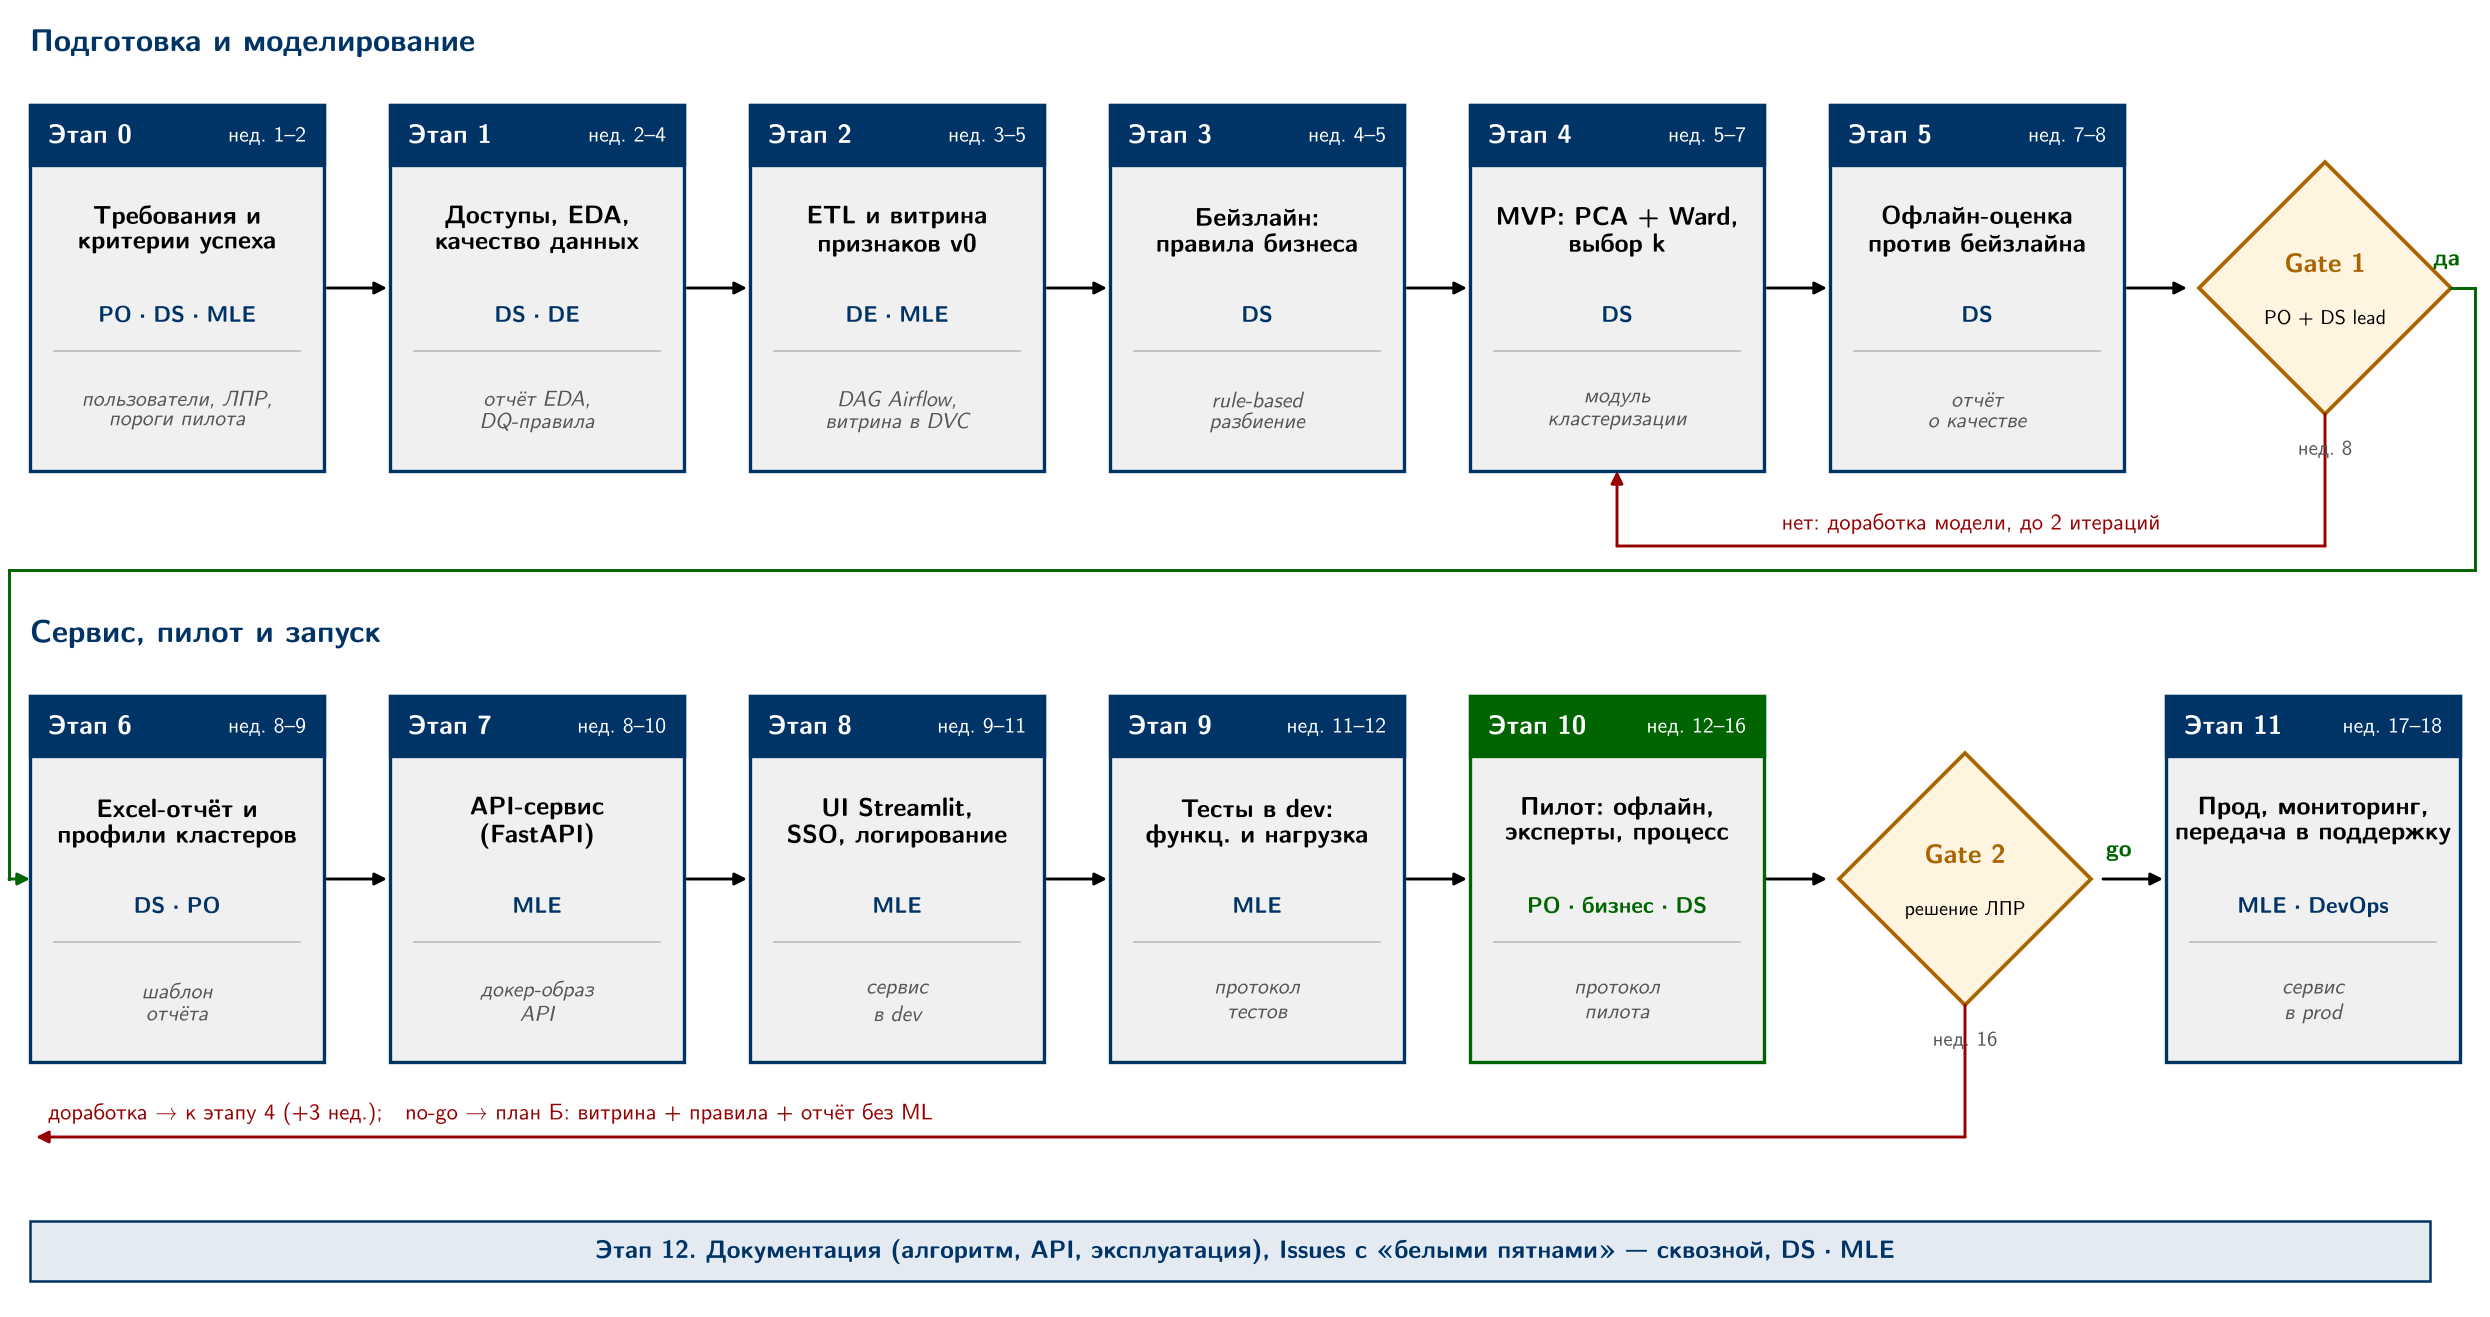
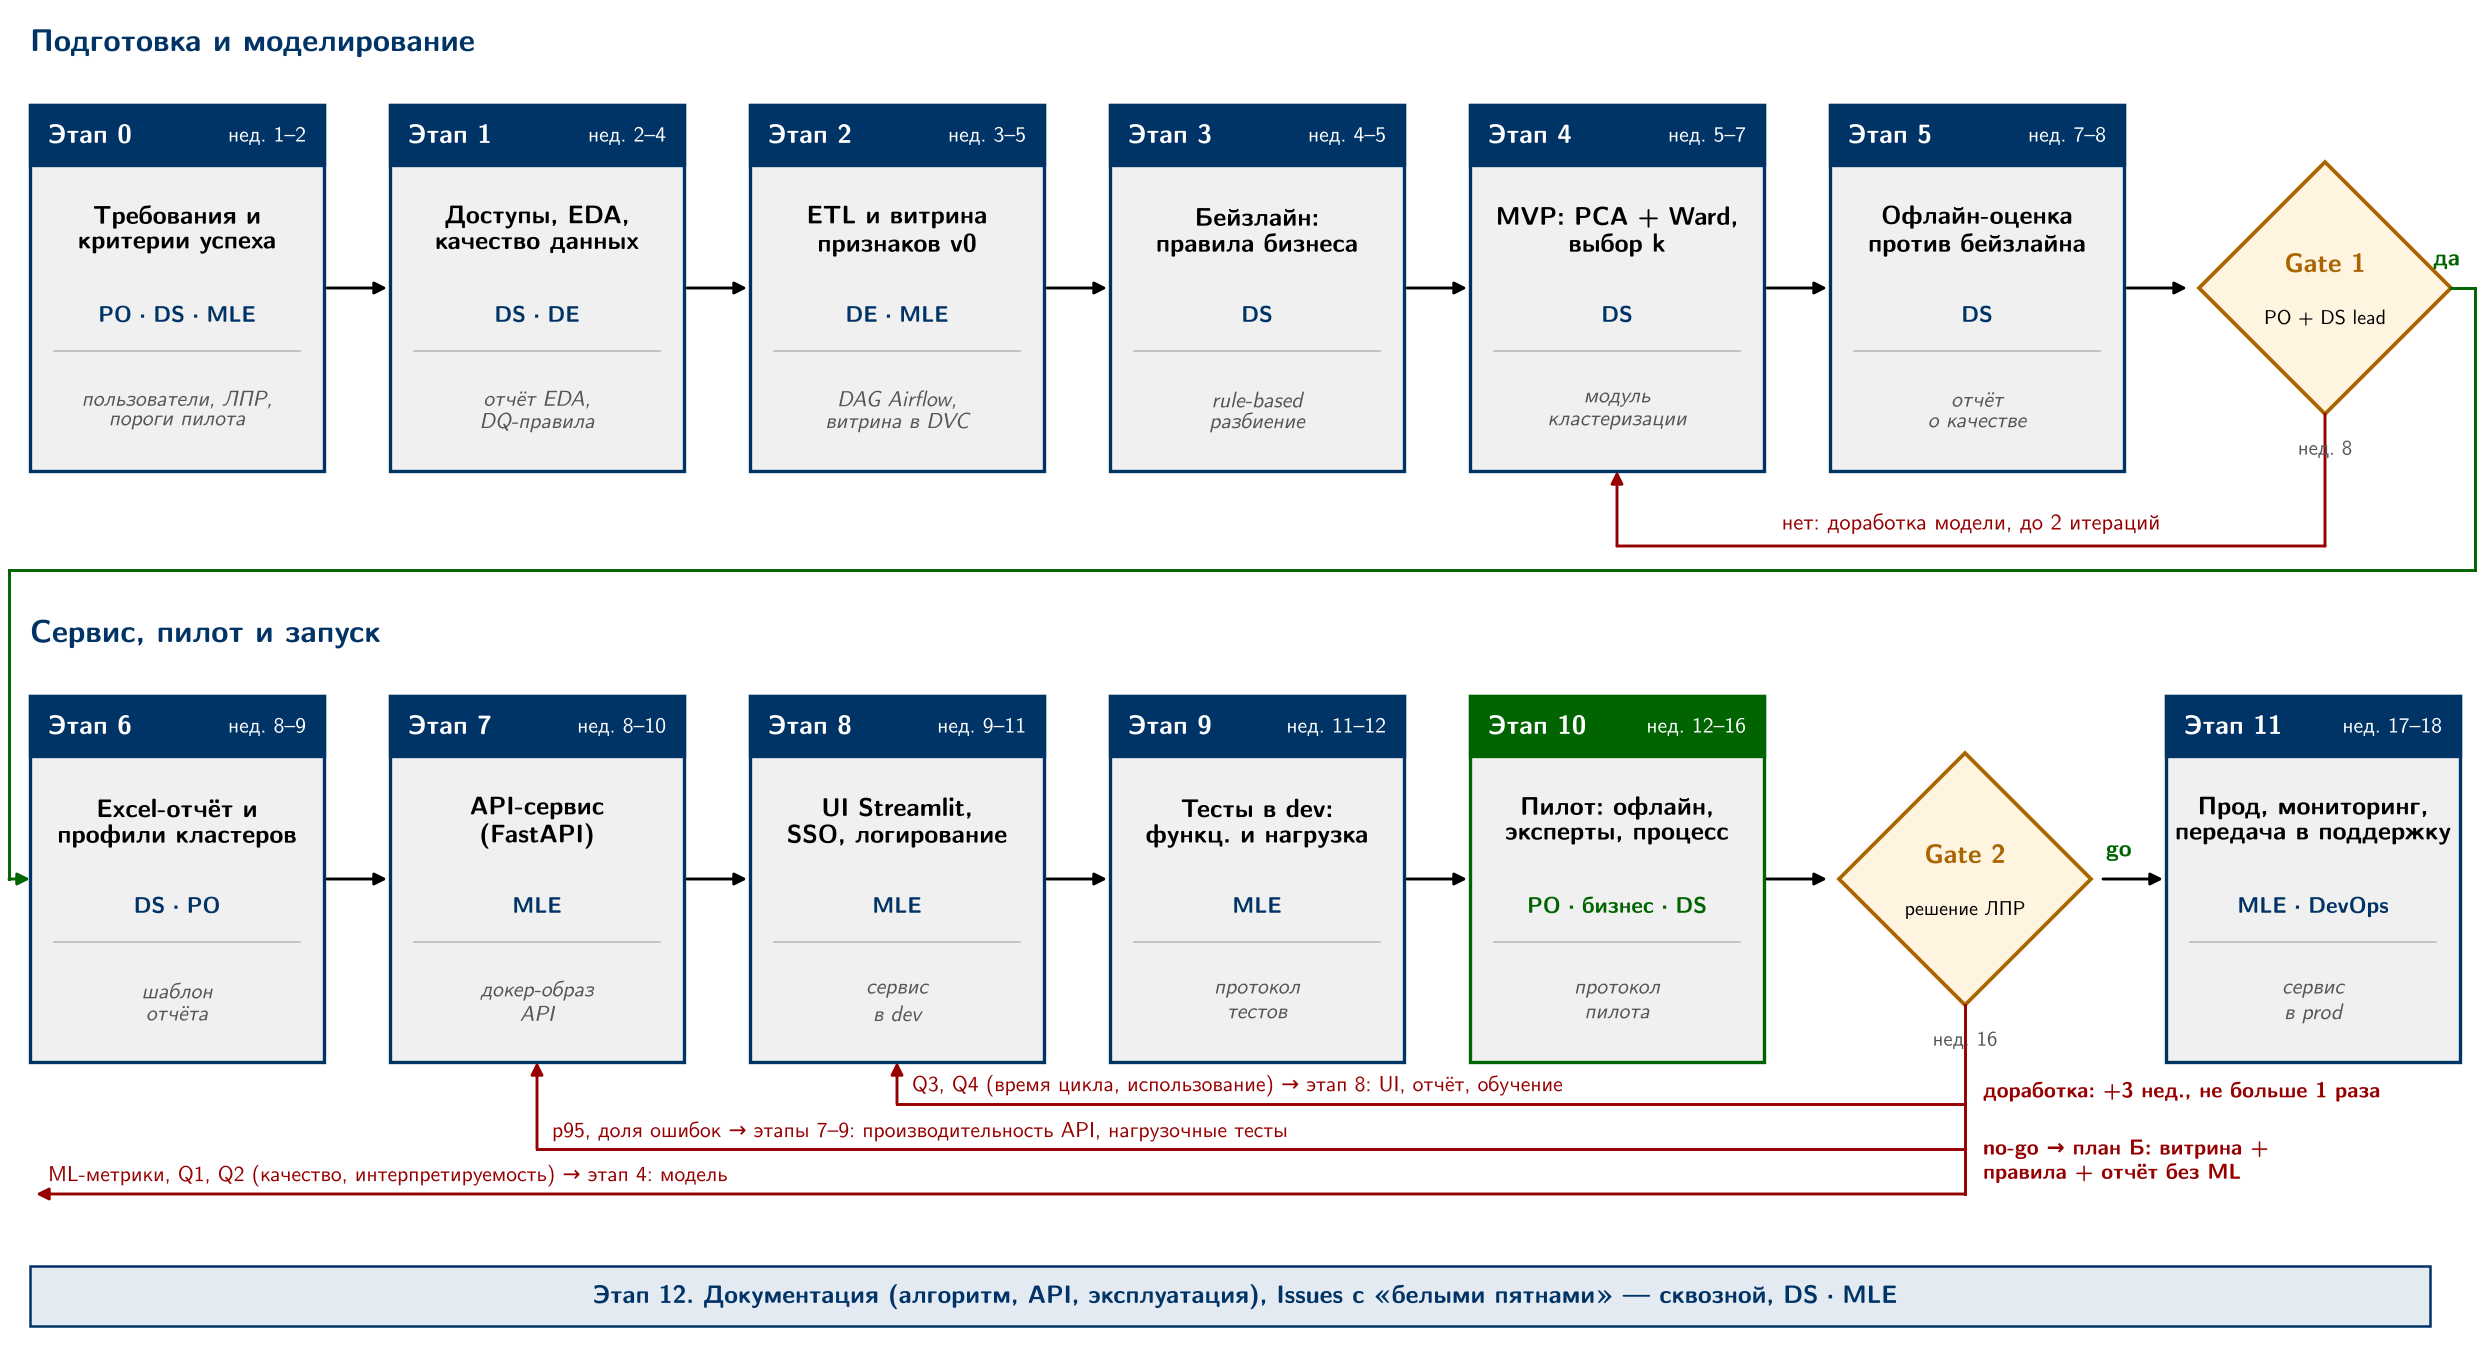
docs(diagrams): три маршрута доработки на Gate 2 в scheme.png
Closes #22

diff --git a/diagrams/draw.py b/diagrams/draw.py
@@ -99,12 +99,12 @@ def row_width(items):
     return sum((0.9 if i[0].startswith("G") else BW) for i in items) + GAP * (len(items) - 1)
 
 
-def stages_row(items, fname, loop):
+def stages_row(items, fname, loop, below=0.45):
     W = row_width(items) + 0.2
-    H = BH + 0.75
+    H = BH + 0.3 + below
     fig = plt.figure(figsize=(W, H))
     ax = fig.add_axes([0, 0, 1, 1]); ax.set_xlim(0, W); ax.set_ylim(0, H); ax.axis("off")
-    y0 = 0.45
+    y0 = below
     pos = draw_row(ax, items, 0.1, y0)
     loop(ax, pos, y0)
     fig.savefig(f"{OUT}/{fname}", dpi=DPI, facecolor="white")
@@ -124,29 +124,49 @@ def loop1(ax, pos, y0):
     ax.text(0.1, y0 + BH + 0.18, "Подготовка и моделирование", fontsize=7.5, fontweight="bold", color=BLUE)
 
 
+# Маршруты доработки на Gate 2 (README, §3.2): (индекс этапа в ROW2 или None — к этапу 4 в первом ряду, подпись)
+REWORK = [
+    (2, "Q3, Q4 (время цикла, использование) → этап 8: UI, отчёт, обучение"),
+    (1, "p95, доля ошибок → этапы 7–9: производительность API, нагрузочные тесты"),
+    (None, "ML-метрики, Q1, Q2 (качество, интерпретируемость) → этап 4: модель"),
+]
+
+
 def loop2(ax, pos, y0, title="Сервис, пилот и запуск   (Этап 12, документация и Issues, идёт сквозным потоком)"):
     g = pos[5]
     ax.text(g[3] + 0.47, y0 + BH / 2 + 0.06, "go", color=GREEN, fontsize=5.6, fontweight="bold", va="bottom")
-    arrow(ax, (g[3], y0 + BH / 2 - 0.42), (g[3], y0 - 0.25), color=RED, style="-")
-    arrow(ax, (g[3], y0 - 0.25), (pos[0][0] + 0.02, y0 - 0.25), color=RED, style="-|>")
-    ax.text(pos[0][0] + 0.06, y0 - 0.21,
-            "доработка → к этапу 4 (+3 нед.);   no-go → план Б: витрина + правила + отчёт без ML",
-            color=RED, fontsize=5.4, ha="left", va="bottom")
+    step = 0.15
+    lanes = [y0 - 0.14 - step * i for i in range(len(REWORK))]
+    ax.plot([g[3], g[3]], [y0 + BH / 2 - 0.42, lanes[-1]], color=RED, lw=0.7)
+    for (idx, label), yl in zip(REWORK, lanes):
+        if idx is None:
+            xt = pos[0][0] + 0.02
+            arrow(ax, (g[3], yl), (xt, yl), color=RED)
+            ax.text(xt + 0.04, yl + 0.025, label, color=RED, fontsize=5.2, ha="left", va="bottom")
+        else:
+            xt = pos[idx][3]
+            ax.plot([g[3], xt], [yl, yl], color=RED, lw=0.7)
+            arrow(ax, (xt, yl), (xt, y0), color=RED)
+            ax.text(xt + 0.05, yl + 0.025, label, color=RED, fontsize=5.2, ha="left", va="bottom")
+    ax.text(g[3] + 0.06, y0 - 0.06, "доработка: +3 нед., не больше 1 раза", color=RED, fontsize=5.2,
+            fontweight="bold", ha="left", va="top")
+    ax.text(g[3] + 0.06, lanes[-1] + 0.03, "no-go → план Б: витрина +\nправила + отчёт без ML", color=RED,
+            fontsize=5.2, fontweight="bold", ha="left", va="bottom", linespacing=1.1)
     ax.text(0.1, y0 + BH + 0.18, title, fontsize=7.5, fontweight="bold", color=BLUE)
 
 
 stages_row(ROW1, "stages_row1.png", loop1)
-stages_row(ROW2, "stages_row2.png", loop2)
+stages_row(ROW2, "stages_row2.png", loop2, below=0.62)
 
 # Полная схема для README: два ряда друг под другом
 W = max(row_width(ROW1), row_width(ROW2)) + 0.2
-H = 2 * (BH + 0.75) + 0.45
+H = 2 * (BH + 0.75) + 0.6
 fig = plt.figure(figsize=(W, H))
 ax = fig.add_axes([0, 0, 1, 1]); ax.set_xlim(0, W); ax.set_ylim(0, H); ax.axis("off")
 yA = H - BH - 0.35
 pA = draw_row(ax, ROW1, 0.1, yA)
 loop1(ax, pA, yA)
-yB = 0.85
+yB = 1.0
 pB = draw_row(ax, ROW2, 0.1, yB)
 loop2(ax, pB, yB, title="Сервис, пилот и запуск")
 # переход G1 -> этап 6
@@ -268,12 +288,12 @@ matrix("risk_matrix.png")
 matrix("risk_matrix_residual.png", residual=True)
 
 # ---------------------------------------------------------------- компактные этапы для слайдов
-def slide_stages(items, fname, footer):
-    W, H = 5.5, 1.58
+def slide_stages(items, fname, footer, below=0.4):
+    W, H = 5.5, 1.18 + below
     bw, gap, bh = 0.66, 0.12, 1.08
     fig = plt.figure(figsize=(W, H))
     ax = fig.add_axes([0, 0, 1, 1]); ax.set_xlim(0, W); ax.set_ylim(0, H); ax.axis("off")
-    y0 = 0.4
+    y0 = below
     x = 0.06
     centers = []
     for it in items:
@@ -335,15 +355,28 @@ def f1(ax, c, y0, bh):
 
 def f2(ax, c, y0, bh):
     g = c[5]
-    yl = 0.14
-    ax.plot([g[2], g[2]], [y0 + bh / 2 - 0.36, yl], color=RED, lw=0.7)
-    ax.plot([g[2], c[0][0] + 0.02], [yl, yl], color=RED, lw=0.7)
-    ax.text(c[0][0] + 0.04, yl + 0.03, "доработка → этап 4 (+3 нед.);  no-go → план Б: витрина + правила без ML",
-            color=RED, fontsize=5, ha="left", va="bottom")
+    short_lab = ["Q3, Q4 → этап 8: UI и процесс", "p95, ошибки → этапы 7–9", "ML-метрики, Q1, Q2 → этап 4"]
+    step = 0.15
+    lanes = [y0 - 0.12 - step * i for i in range(3)]
+    ax.plot([g[2], g[2]], [y0 + bh / 2 - 0.36, lanes[-1]], color=RED, lw=0.7)
+    for (idx, _), lab, yl in zip(REWORK, short_lab, lanes):
+        if idx is None:
+            xt = c[0][0] + 0.02
+            arrow(ax, (g[2], yl), (xt, yl), color=RED)
+            ax.text(xt + 0.04, yl + 0.02, lab, color=RED, fontsize=5, ha="left", va="bottom")
+        else:
+            xt = c[idx][2]
+            ax.plot([g[2], xt], [yl, yl], color=RED, lw=0.7)
+            arrow(ax, (xt, yl), (xt, y0), color=RED)
+            ax.text(xt + 0.04, yl + 0.02, lab, color=RED, fontsize=5, ha="left", va="bottom")
+    ax.text(g[2] + 0.05, y0 - 0.04, "доработка:\n+3 нед., 1 раз", color=RED, fontsize=4.8, fontweight="bold",
+            ha="left", va="top", linespacing=1.05)
+    ax.text(g[2] + 0.05, lanes[-1] + 0.02, "no-go →\nплан Б", color=RED, fontsize=4.8, fontweight="bold",
+            ha="left", va="bottom", linespacing=1.05)
     ax.text(g[2] + 0.38, y0 + bh / 2 + 0.04, "go", color=GREEN, fontsize=5.3, fontweight="bold", ha="center",
             va="bottom")
 
 
 slide_stages(short(ROW1), "stages_slide1.png", f1)
-slide_stages(short(ROW2), "stages_slide2.png", f2)
+slide_stages(short(ROW2), "stages_slide2.png", f2, below=0.56)
 print("slides done")
